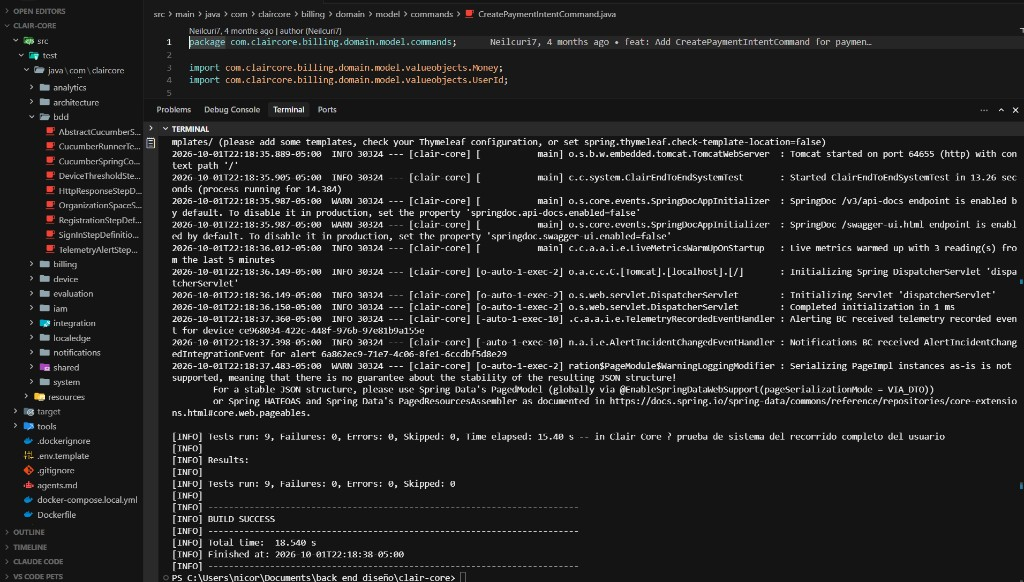
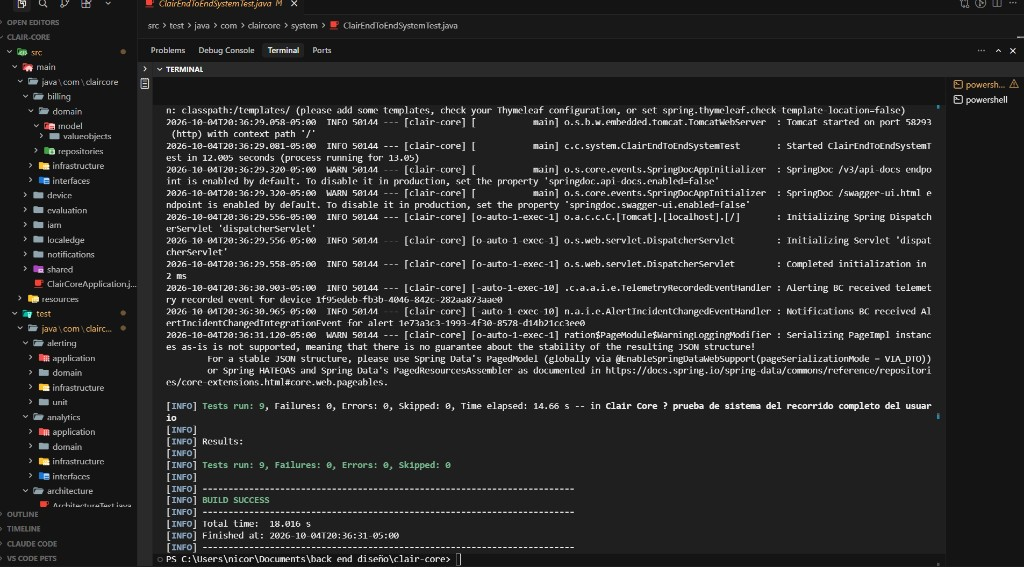
docs: update BDD and system test evidence for H2 suites

Changed region(s): [[0.0, 0.0, 1.0, 1.0], [0.9375, 0.1499, 1.0, 0.1799], [0.9375, 0.0, 0.9688, 0.03]]

diff --git a/chapters/chapter6.md b/chapters/chapter6.md
@@ -4,14 +4,14 @@
 
 ## 6.1. Testing Suites & Validation
 
-El backend de Clair Core (`clair-core`, Spring Boot 3.5.5 con Java 25) se prueba con cuatro suites. Las de Unit e Integration Tests corren dentro de la JVM con H2 en memoria, así que no necesitan Docker. Las de BDD y System Tests levantan la aplicación en un puerto real contra PostgreSQL y Redis, y la prueban por HTTP. Todas se ejecutan con `nix-shell --run "mvn test"` y cada prueba está asociada a una User Story (WS-US) del backlog.
+El backend de Clair Core (`clair-core`, Spring Boot 3.5.5 con Java 25) se prueba con cuatro suites. Todas corren dentro de la JVM: Unit e Integration Tests instancian servicios o el contexto Spring sobre H2; BDD y System Tests levantan la aplicación en un puerto aleatorio, también sobre H2, y la recorren por HTTP. Ninguna suite necesita Docker, PostgreSQL ni Redis. Todas se ejecutan con `nix-shell --run "mvn test"` y cada prueba está asociada a una User Story (WS-US) del backlog.
 
 | Suite | Nivel | Aísla | Tecnología | Pruebas |
 |---|---|---|---|---|
 | Unit Tests | Dominio | Sin Spring ni base de datos | JUnit 5 + Mockito | 49 (5 clases) |
 | Integration Tests | Servicios de aplicación y persistencia, entre bounded contexts | Spring real sobre H2; solo se mockean los servicios externos | `@SpringBootTest` + JPA + `@MockitoBean` | 15 (5 clases) |
-| Behavior-Driven Development | Especificación de negocio | App HTTP contra PostgreSQL y Redis | Cucumber 7.20.1 (Gherkin español) | 13 (5 features) |
-| System Tests | Sistema completo | App en puerto aleatorio contra PostgreSQL y Redis | JUnit 5 + `TestRestTemplate` | 9 (1 clase) |
+| Behavior-Driven Development | Especificación de negocio | App HTTP sobre H2; sesiones en memoria | Cucumber 7.20.1 (Gherkin español) | 13 (5 features) |
+| System Tests | Sistema completo | App en puerto aleatorio sobre H2; sesiones en memoria | JUnit 5 + `TestRestTemplate` | 9 (1 clase) |
 
 Convenciones que siguen todas las pruebas, según la rúbrica:
 
@@ -214,10 +214,11 @@ Estas pruebas escriben los criterios de aceptación de las User Stories como esp
 
 Ubicación: `src/test/resources/features/`. Los archivos siguen el patrón `WS-USxx-Titulo.feature`. El runner es `CucumberRunnerTest` (`@Suite`, motor Cucumber, glue `com.claircore.bdd`).
 
-La suite se apoya en dos piezas:
+La suite se apoya en las mismas piezas herméticas que las Integration Tests:
 
-- El perfil `system` (`src/test/resources/application-system.properties`) usa PostgreSQL y Redis reales, aplica las migraciones Flyway V1–V10 y pone valores ficticios para JWT, Google, Stripe y OneSignal. También apaga el local edge.
-- `CucumberSpringConfiguration` activa ese perfil. Las *step definitions* (`RegistrationStepDefinitions`, `SignInStepDefinitions`, `OrganizationSpaceStepDefinitions`, `DeviceThresholdStepDefinitions`, `TelemetryAlertStepDefinitions`, `HttpResponseStepDefinitions`) usan anotaciones Cucumber en español (`@Dado`, `@Cuando`, `@Entonces`, `@Y`) y heredan de `AbstractCucumberSteps`, que centraliza el JWT, el `TestRestTemplate` y la captura del código de `/api/v1/auth/confirm` con `ArgumentCaptor` sobre `ExternalNotificationService`. Stripe, Google OAuth y el envío de correo se reemplazan con `@MockitoBean`. OneSignal se sustituye por `PushNotificationDeliveryService` para no llamar la API real.
+- El perfil `it` (`src/test/resources/application-it.properties`) usa H2 en memoria, desactiva Flyway, genera el esquema con `ddl-auto=create-drop` y apaga el local edge. JWT, Google, Stripe y OneSignal llevan valores ficticios.
+- `CucumberSpringConfiguration` activa ese perfil e importa `HermeticHttpTestConfiguration`: las sesiones de IAM viven en `InMemoryTokenSessionRepository` e `InMemoryRegistrationSessionRepository`, y la caché es un `NoOpCacheManager`. Así no se contacta Redis.
+- Las *step definitions* (`RegistrationStepDefinitions`, `SignInStepDefinitions`, `OrganizationSpaceStepDefinitions`, `DeviceThresholdStepDefinitions`, `TelemetryAlertStepDefinitions`, `HttpResponseStepDefinitions`) usan anotaciones Cucumber en español (`@Dado`, `@Cuando`, `@Entonces`, `@Y`) y heredan de `AbstractCucumberSteps`, que centraliza el JWT, el `TestRestTemplate` y la captura del código de `/api/v1/auth/confirm` con `ArgumentCaptor` sobre `ExternalNotificationService`. Stripe, Google OAuth, el correo SMTP y OneSignal se reemplazan con `@MockitoBean`. Después de cada escenario se vacían las tablas H2.
 
 Cumplen la rúbrica: hay al menos dos features con `Esquema del escenario` + `Ejemplos` (inicio de sesión y umbrales) y al menos dos con `Data Table` (espacios y telemetría). Los decimales viajan como `String` y se convierten a `BigDecimal` en las step definitions.
 
@@ -378,11 +379,11 @@ Las 13 pruebas pasan (64 pasos). El runner confirma el registro con el código c
 
 ### 6.1.4. Core System Tests.
 
-Esta prueba recorre Clair Core de punta a punta por HTTP: levanta la aplicación con `@SpringBootTest` y `RANDOM_PORT`, usa el perfil `system` (PostgreSQL, Redis y Flyway V1–V10) y encadena IAM, Billing, Device, Evaluation, Alerting y Analytics en un solo usuario. La clase es `ClairEndToEndSystemTest` (`@TestMethodOrder(OrderAnnotation.class)`). Cada paso tiene `@DisplayName` en español, patrón AAA y el comentario `// Business / User Story Rational (WS-US-xx):`.
+Esta prueba recorre Clair Core de punta a punta por HTTP: levanta la aplicación con `@SpringBootTest` y `RANDOM_PORT`, usa el perfil `it` (H2 en memoria) y la misma `HermeticHttpTestConfiguration` que BDD, y encadena IAM, Billing, Device, Evaluation, Alerting y Analytics en un solo usuario. La clase es `ClairEndToEndSystemTest` (`@TestMethodOrder(OrderAnnotation.class)`). Cada paso tiene `@DisplayName` en español, patrón AAA y el comentario `// Business / User Story Rational (WS-US-xx):`.
 
 Ubicación: `src/test/java/com/claircore/system/ClairEndToEndSystemTest.java`.
 
-Los adaptadores fuera del proceso se mockean igual que en BDD: `PaymentGateway`, `GoogleTokenVerifier`, `GoogleTokenExchange`, `ExternalNotificationService` y `PushNotificationDeliveryService`. El inventario de fábrica está fijado por seeds; el recorrido inserta su propio sensor no reclamado y lo empareja, para no depender de un `hardwareId` compartido.
+Los adaptadores fuera del proceso se mockean igual que en BDD: `PaymentGateway`, `GoogleTokenVerifier`, `GoogleTokenExchange`, `ExternalNotificationService`, `EmailDeliveryService` y `PushNotificationDeliveryService`. El recorrido crea su propio sensor con `ImportDevicesCommand` y lo empareja, para no depender de seeds ni de un `hardwareId` compartido.
 
 | Paso | Prueba | Verifica | US |
 |---|---|---|---|
@@ -400,7 +401,7 @@ Los adaptadores fuera del proceso se mockean igual que en BDD: `PaymentGateway`,
 
 Las 9 pruebas pasan. El recorrido confirma que un usuario Freemium recién verificado puede ubicar un sensor, definir un umbral, recibir la alerta de una lectura fuera de rango y perder el refresh token al cerrar sesión.
 
-El workflow `.github/workflows/ci.yml` (`Build and Run Test Suites`) levanta Postgres 15 (`clair_test`) y Redis 7, exporta `CLAIR_TEST_POSTGRES_*` y ejecuta `mvn -B clean verify`. Las suites BDD y de sistema corren en ese job junto al resto de la batería.
+El workflow `.github/workflows/ci.yml` (`Build and Run Test Suites`) no levanta contenedores: solo configura JDK 25 y ejecuta `mvn -B clean verify`. Las cuatro suites corren en ese job sobre H2.
 
 ![GitHubActionsCI](../assets/testing/GitHubActionsCI.png)
 

diff --git a/versions.md b/versions.md
@@ -43,6 +43,7 @@
 | 1.0.5  | 30/09/2026 | Dante Mateo Aleman Romano | Redacté la sección 7.3.2 Production Deployment Pipeline Components con la topología productiva definitiva del backend, frontend, edge station y servicios externos. |
 | 1.0.6  | 01/10/2026 | Iker Barturen | Redacté las secciones 6.1 Testing Suites & Validation, 6.1.1 Core Entities Unit Tests y 6.1.2 Core Integration Tests con las tablas de cada clase de prueba y las capturas de su ejecución. |
 | 1.0.7  | 01/10/2026 | Victor Nicolas Ortiz Alarcon | Redacté las secciones 6.1.3 Core Behavior-Driven Development y 6.1.4 Core System Tests con las features Gherkin, el recorrido HTTP y las capturas de Cucumber, System Tests y GitHub Actions. |
+| 1.0.8  | 04/10/2026 | Victor Nicolas Ortiz Alarcon | Corregí las secciones 6.1.3 y 6.1.4: las suites HTTP corren sobre H2 con sesiones en memoria y mocks, sin PostgreSQL ni Redis, y actualicé las capturas de Cucumber y System Tests. |
 
 # Project Report Collaboration Insights
 
